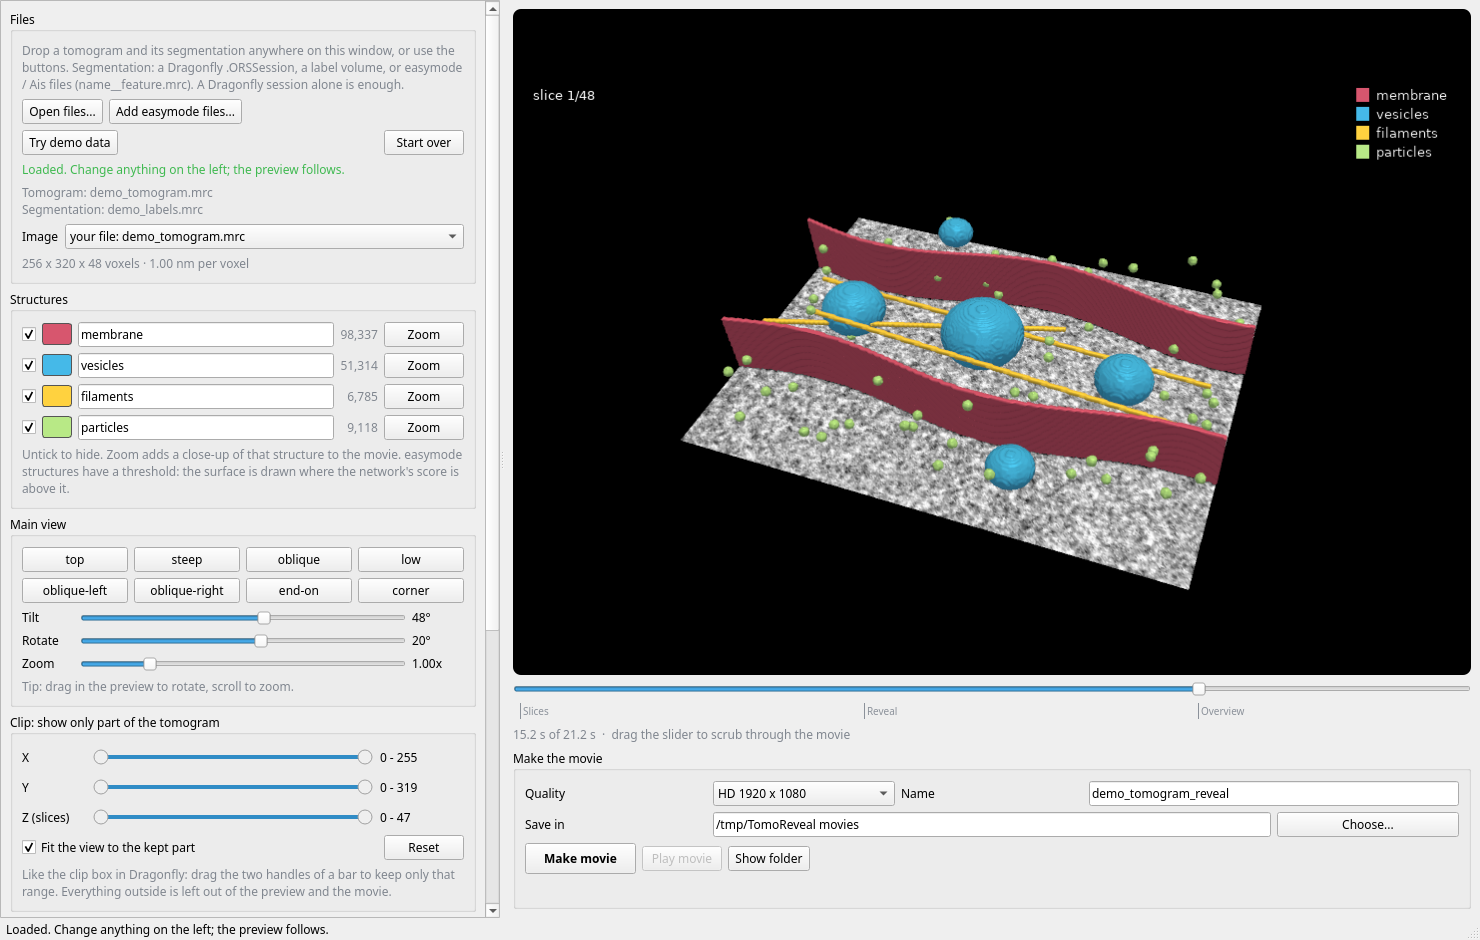
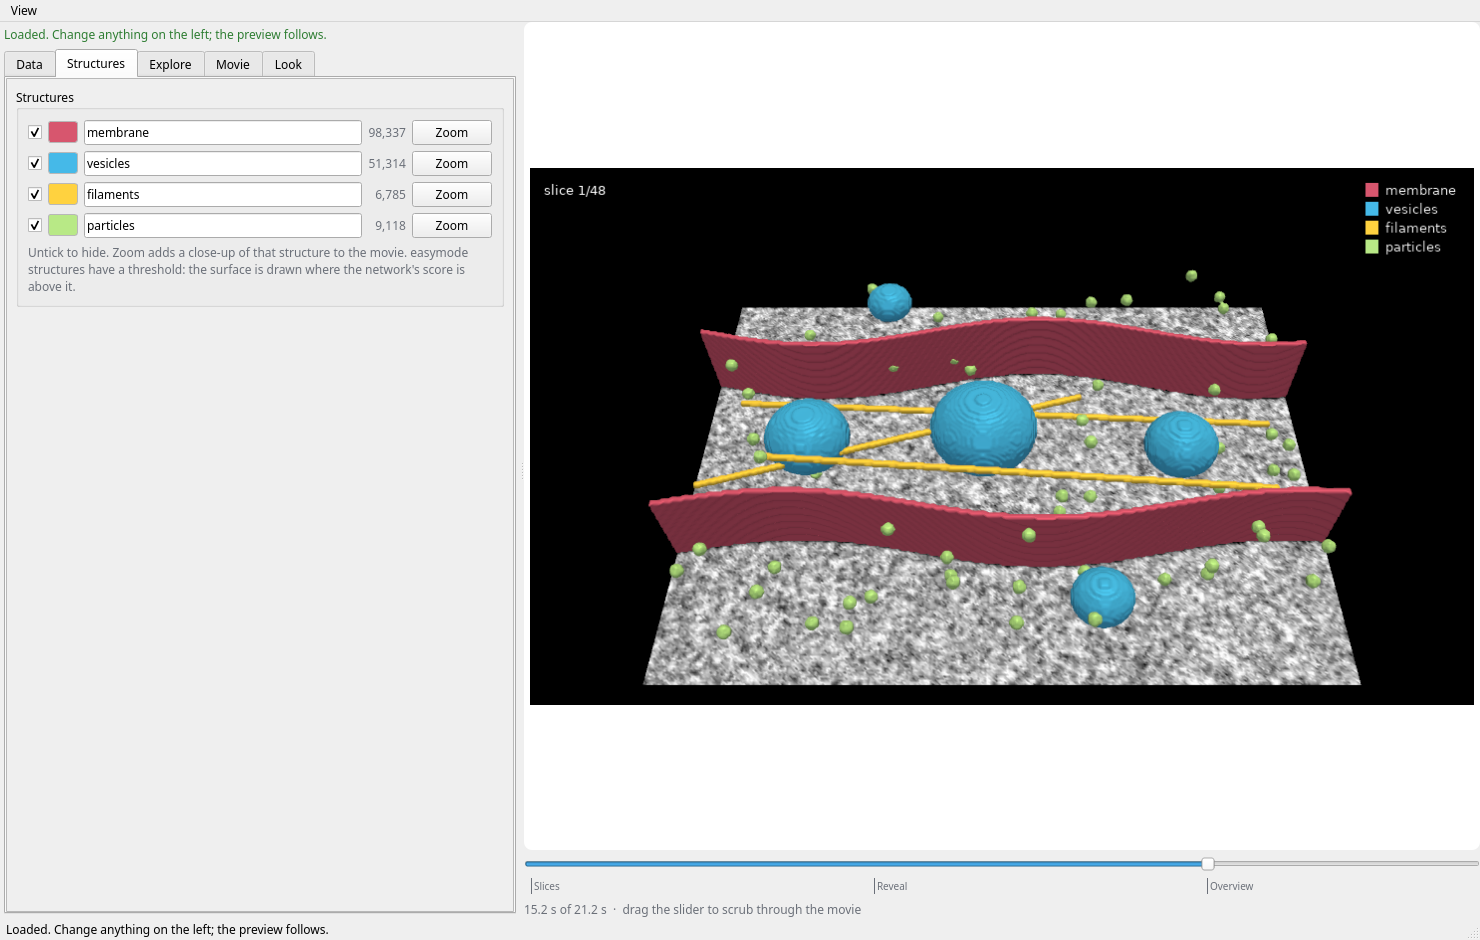
Phase 7: version 3.2.0, change log, README and screenshots
- Version 3.2.0 (tomoreveal/common.py; pyproject reads it).
- CHANGELOG.md: one entry per request F1-F5, with the cause found for F1.
- README.md:
  - "Make a movie" steps 1-2 rewritten for the Data tab (tomogram only,
    segmentation only, Add tomogram / Add segmentation, right-click to
    change the kind, several segmentations with tick boxes);
  - new "Look through the slices" (Explore tab), "Show, fade or hide the
    tomogram" and "Dark mode" sections;
  - `tomoreveal inspect` in the command list and in a new troubleshooting
    entry for structure names that differ from Dragonfly;
  - developer notes: new modules, and TOMOREVEAL_TEST_DATA for real sessions.
- docs/images regenerated with the offscreen window from the demo data only
  (the Data tab picture uses a made-up session built from the demo files);
  new pictures of the Data tab, the Explore tab, the per-shot tomogram
  choice and dark mode.

diff --git a/tomoreveal/common.py b/tomoreveal/common.py
@@ -1,7 +1,7 @@
 """Shared constants and small helpers."""
 
 
-__version__ = "3.1.0"
+__version__ = "3.2.0"
 
 
 ZMAGIC = b"\x28\xb5\x2f\xfd"

diff --git a/README.md b/README.md
@@ -12,7 +12,7 @@ TomoReveal reads these segmentations:
 
 The application is read-only for your data. It does not edit, rename or move tomograms, sessions or segmentations. It writes only the movies, in the folder that you select. It runs on your computer and does not send data to the internet.
 
-This is version 3.1.0. The [change log](CHANGELOG.md) lists the changes in each release.
+This is version 3.2.0. The [change log](CHANGELOG.md) lists the changes in each release.
 
 ## Supported platforms
 
@@ -122,7 +122,7 @@ The application writes a small made-up tomogram in a temporary folder and opens 
 
 ### 1. Load the files
 
-Drop the files on the window, or click **Open files**. You can drop all files at the same time.
+Drop the files on the window, or use the buttons in the **Data** tab. You can drop all files at the same time, and add more later: new files are added to what is loaded. **Start over** unloads everything.
 
 ![Empty window](docs/images/01-start.png)
 
@@ -131,37 +131,60 @@ Drop the files on the window, or click **Open files**. You can drop all files at
 | A Dragonfly session | The `.ORSSession` file. The tomogram file is optional, because the session contains a copy of the image. |
 | easymode or Ais output | The tomogram and the `name__feature.mrc` files |
 | A label volume | The tomogram and the label file |
+| Only a tomogram | The tomogram. The movie is the slice sweep and the overview. |
+| Only a segmentation | The segmentation. The movie shows the structures without a tomogram. |
 | A Dragonfly session and easymode output | All of them. The structures of both are shown. |
 
-Large tomograms and sessions can take a minute to load.
+TomoReveal recognises each dropped file by its content. To choose yourself, use **Add tomogram...** (the file is always used as the tomogram) or **Add segmentation...** (a session, a label volume or easymode files; never used as the tomogram). If a dropped file was recognised wrongly, right-click it in the Data tab and choose **Use as tomogram** or **Use as segmentation**.
 
-### 2. Select the image and the segmentation
+Large tomograms and sessions can take a minute to load. A line in the Data tab shows the progress.
 
-When you load a Dragonfly session, the **Image** list contains:
+### 2. Choose the tomogram and the segmentations
 
-- **your file**: the tomogram file that you loaded.
-- **Dragonfly's copy**: each image that is saved in the session, also filtered copies that you made in Dragonfly.
+![The Data tab with a session loaded](docs/images/02-data.png)
 
-Sometimes the image is changed during the import into Dragonfly: it is cropped, binned, or an axis is flipped. Then the tomogram file and the segmentation are not on the same grid. TomoReveal compares your file with Dragonfly's copy and finds the crop, the binning and the flips. It then puts your file on the grid of the segmentation. A line below the lists tells you what it found, for example "cropped to x 60-767, y 150-1315, z 6-73".
+**TOMOGRAM** lists every image that you can show under the segmentation. Only one is used at a time:
 
-easymode files that were made from the original tomogram file are put on the Dragonfly grid in the same way.
+- **None**: no tomogram. The structures are drawn on their own.
+- **your file**: a tomogram file that you loaded.
+- **from Dragonfly session ...**: each image that is saved in a session, also filtered copies that you made in Dragonfly. When you load only a session, its first image is selected for you.
 
-If the file is not the image that was imported, TomoReveal tells you and shows Dragonfly's copy.
+Sometimes the image is changed during the import into Dragonfly: it is cropped, binned, or an axis is flipped. Then the tomogram file and the segmentation are not on the same grid. TomoReveal compares your file with Dragonfly's copy and finds the crop, the binning and the flips. It then puts your file on the grid of the segmentation. A line below the list tells you what it found, for example "cropped to x 60-767, y 150-1315, z 6-73". easymode files that were made from the original tomogram file are put on the Dragonfly grid in the same way. If the file is not the image that was imported, TomoReveal tells you and shows Dragonfly's copy.
 
-The **Segmentation** list contains each multi-ROI and ROI of the session. TomoReveal selects the one that looks like the final segmentation. Select a different one if necessary.
+**SEGMENTATION** lists every multi-ROI and ROI of each session, and each label or easymode file, with a tick box. Next to each one you see how many structures it has and, in grey, their names, so that you can see what you switch on. You can switch on several at the same time; their structures are listed in groups in the Structures tab. For each session, TomoReveal switches on the one that looks like the final segmentation. Change it with one click if it chose wrongly.
+
+- A segmentation on another grid than the tomogram is greyed out, with the reason, for example "511 × 720 × 250 voxels, but the tomogram is 512 × 720 × 250".
+- The single-slice previews that Dragonfly's Segmentation Wizard leaves in a session, and Dragonfly's undo copies, are not listed. A grey line says how many were left out.
+- **Remove** unloads a file or a session. Your files on disk are not touched.
 
 ### 3. Set the structures
 
-For each structure you can:
+The **Structures** tab lists the structures with the names and colours that are saved in the Dragonfly session (or in the `.json` file next to a label volume). For each structure you can:
 
 - remove the tick to hide it.
 - click the coloured box to change the colour.
 - change the name. The legend uses this name.
 - move the **threshold** bar (easymode and Ais structures only). The surface is drawn where the score of the network is above the threshold.
 
+Structures that are hidden in Dragonfly, and the background, are listed in grey with the tick removed. Tick them to show them anyway. A structure that has no name in the session is shown as "label 3 (no name in the session)".
+
+### Look through the slices
+
+The **Explore** tab is for looking at the data slice by slice. It does not change the movie.
+
+![The Explore tab](docs/images/06-explore.png)
+
+- Move through the slices with the slider, **Previous** and **Next**, the mouse wheel, or the keys: Down or Right for the next slice, Up or Left for the previous one, Page Down and Page Up for ten slices, Home and End for the first and the last slice.
+- **2D slice** shows the slice flat, with the segmentation filled, as outlines, or off. **Overlay opacity** sets how strongly the colours cover the slice. Ctrl + mouse wheel zooms, dragging moves the image, and a double-click shows the whole slice again.
+- **3D at this slice** shows the 3D view with the slice at this position, and the structures above the slice, all structures, or none.
+- The line below the image shows the slice number, the depth in nm, and under the mouse the position, the grey value and the name of the structure.
+- Colours and which structures are shown come from the Structures tab. The clip box is drawn as a dashed rectangle, and slices outside the movie's slice range are dimmed.
+
+Three buttons pass what you found to the movie: **Start the slice sweep here**, **End the slice sweep here**, and **Add a close-up of** the structure under the mouse.
+
 ### 4. Set the view
 
-Click a view button, or use the **Tilt**, **Rotate** and **Zoom** bars. You can also drag in the preview to rotate, and scroll to zoom.
+In the **Movie** tab, click a view button, or use the **Tilt**, **Rotate** and **Zoom** bars. You can also drag in the preview to rotate, and scroll to zoom.
 
 ### 5. Clip the tomogram
 
@@ -176,19 +199,40 @@ Use **Clip** to keep only a part of the tomogram, as with the clip box in Dragon
 - Click **Zoom** next to a structure to add a close-up of all of that structure.
 - Click **+ Click a structure in the preview**, then click one object (one vesicle, one filament) to add a close-up of that object only.
 
-For each close-up you can set a caption, the duration, the zoom, the camera movement (orbit, rock or still), and what happens to the other structures (grey, hidden or unchanged).
+For each close-up you can set a caption, the duration, the zoom, the camera movement (orbit, rock or still), what happens to the other structures (grey, hidden or unchanged), and the tomogram (see the next step).
 
 ![A close-up of one object](docs/images/04-closeup.png)
 
 Drag the bar below the preview to look through the full movie before you make it.
 
-### 7. Make the movie
+### 7. Show, fade or hide the tomogram
 
-Select the quality, the name and the folder. Click **Make movie**. A bar shows the progress and the time that remains. When the movie is complete, click **Play movie** to open it in your video player, or **Show folder**.
+In the **Look** tab, **Tomogram slice** sets the default for the whole movie: **Show the tomogram slice**, and its **Opacity** from 0 to 100 %.
+
+In the **Movie** tab, each shot (slide up, reveal, overview and each close-up) has its own **Tomogram** choice:
+
+- **as default**: as set in the Look tab.
+- **shown**: fully visible.
+- **faded**: see-through, with the opacity that you set for this shot.
+- **hidden**: not shown, so only the structures are visible.
+
+The change happens at the start of the shot, over the **fade** time (0.5 s unless you change it). For example, set the overview to **hidden** to let the tomogram fade out after the reveal. If you hide the tomogram during the slide-up, a grey line warns you that this shot then shows nothing.
+
+![The tomogram choice for each shot](docs/images/07-tomogram.png)
+
+### 8. Make the movie
+
+At the end of the **Movie** tab, select the quality, the name and the folder. Click **Make movie**. A bar shows the progress and the time that remains. When the movie is complete, click **Play movie** to open it in your video player, or **Show folder**.
 
 ![The movie is saved](docs/images/05-movie-saved.png)
 
 Save the movies in a folder that is not your data folder.
+
+## Dark mode
+
+In the **View** menu, or in the Look tab under **Window**, choose the theme: **System** (follow the desktop), **Light** or **Dark**. TomoReveal remembers the choice. The theme changes only the window; the background of the movie is set separately in the Look tab.
+
+![Dark mode](docs/images/08-dark.png)
 
 ## Supported files
 
@@ -199,7 +243,7 @@ Save the movies in a folder that is not your data folder.
 | Label volume | `.mrc` `.tif` with whole numbers | One number for each structure. Put a `.json` file with the same name next to it to give names and colours: `{"1": {"name": "membrane", "color": "#d7566e"}}` |
 | easymode or Ais output | `name__feature.mrc` | One file for each structure. Scores as int8 (0 to 127), uint16 (0 to 255) or float32 (0 to 1). |
 
-The tomogram and the segmentation must show the same volume. A segmentation at a different binning of the same volume is resampled. For Dragonfly sessions, see [Select the image and the segmentation](#2-select-the-image-and-the-segmentation).
+The tomogram and the segmentation must show the same volume, and so must several segmentations that are switched on together. A segmentation at a different binning of the same volume is resampled. For Dragonfly sessions, see [Choose the tomogram and the segmentations](#2-choose-the-tomogram-and-the-segmentations).
 
 These files are not supported: Dragonfly `.ORSObject` files, Amira `.am`, IMOD `.mod`, and particle coordinate files such as `.star`.
 
@@ -260,9 +304,19 @@ tomoreveal --headless
 
 On Windows and macOS, update the graphics driver or the operating system.
 
-### The tomogram and the segmentation do not agree ("grid mismatch")
+### The structure names are not the ones in Dragonfly
 
-The two files do not show the same volume. Make sure that you selected the tomogram that the segmentation was made from. For a Dragonfly session, load the session without a tomogram file to use Dragonfly's copy of the image.
+Check which segmentation is ticked in the Data tab: a session can hold several, for example training data and the final result. To see exactly what TomoReveal reads from a session, run:
+
+~~~text
+tomoreveal inspect session.ORSSession
+~~~
+
+It prints each image and segmentation in the session, the stored names, colours and visible flags, and which stored property each was read from. Compare it with Dragonfly's Data Properties panel. Give a folder instead of a file to inspect every session in it, and add `--json` for output that other programs can read.
+
+### A segmentation is greyed out, or "grid mismatch"
+
+The tomogram and the segmentation do not show the same volume. Make sure that you selected the tomogram that the segmentation was made from. For a Dragonfly session, load the session without a tomogram file to use Dragonfly's copy of the image.
 
 ### A Dragonfly session cannot be read
 
@@ -278,6 +332,7 @@ The same functions are available as commands, for example on a computer without 
 
 ~~~text
 tomoreveal list    session.ORSSession
+tomoreveal inspect session.ORSSession
 tomoreveal movie   tomogram.mrc --session session.ORSSession --view oblique,top --focus "vesicles" -o movie.mp4
 tomoreveal movie   tomogram.mrc --features tomogram__membrane.mrc --threshold 0.5 --clip 0,400,0,600,10,50
 tomoreveal extract session.ORSSession --masks -o segmentation_out
@@ -288,7 +343,9 @@ On a Linux computer without a display, add `--headless` to the `movie` command.
 
 `tomoreveal extract` writes the selected Dragonfly segmentation as `labels.mrc` with the names and colours in `classes.json`.
 
-`tomoreveal app` shows the controls in a web browser tab on this computer in place of the window. This older interface does not have the clip bars.
+`tomoreveal inspect` prints what TomoReveal reads from a session; see [The structure names are not the ones in Dragonfly](#the-structure-names-are-not-the-ones-in-dragonfly).
+
+`tomoreveal app` shows the controls in a web browser tab on this computer in place of the window. This older interface does not have the clip bars, the Explore tab, the tomogram controls or dark mode.
 
 ## Scope and data safety
 
@@ -311,6 +368,9 @@ The source code is in the `tomoreveal` folder:
 | `render.py` | Drawing one frame and writing the movie |
 | `studio.py` | Program state that the window and the commands share |
 | `gui.py` | The desktop window |
+| `gui_data.py` | The Data tab |
+| `gui_explore.py`, `explore.py` | The Explore tab and its slice drawing |
+| `gui_theme.py` | Light and dark themes |
 | `cli.py`, `webapp.py`, `demo.py` | Commands, browser interface, demo data |
 
 To run the tests:
@@ -320,7 +380,7 @@ conda activate tomoreveal
 python -m pytest
 ~~~
 
-The tests use made-up data. They do not include a Dragonfly session, so the session reader is not covered by them. The tests that draw are skipped on a computer where no renderer can start.
+The tests use made-up data, including small made-up Dragonfly sessions. To also test real sessions, set `TOMOREVEAL_TEST_DATA` to a folder that contains them (outside the repository); those tests are skipped otherwise. The tests that draw are skipped on a computer where no renderer can start.
 
 ## License
 

diff --git a/CHANGELOG.md b/CHANGELOG.md
@@ -1,5 +1,23 @@
 # Change log
 
+## 3.2.0
+
+- **Structure names from Dragonfly (F1).** The Structures tab now always shows the names and colours of the segmentation that is switched on.
+  - Cause: in 3.1.0 the list of structures could not be rebuilt after the first load. Choosing another segmentation, or dropping another session, kept the names of the first one on screen while the movie already used the new ones.
+  - Names, colours and Dragonfly's "visible" flag are now read by the type of each stored property, not by guessing. This also fixes wrong, almost black colours in some training multi-ROIs.
+  - Structures that are hidden in Dragonfly, and background structures, are listed in grey with the tick box off. You can switch them on.
+  - A label without a name is shown as "label 3 (no name in the session)"; names are never made up.
+  - New command `tomoreveal inspect session.ORSSession` prints everything TomoReveal reads from a session.
+- **Tomogram opacity (F2).** In the Look tab: show or hide the tomogram slice, and set its opacity. In the Movie tab, each shot can use the default, show, fade or hide the tomogram, with a fade time. Movies without any tomogram are possible.
+- **Data tab (F3).** Load a tomogram only, a segmentation only, or both. Several sessions and files can be loaded at the same time.
+  - The tomogram is one choice: none, your file, or an image saved in a Dragonfly session. A session alone uses its own image.
+  - Every segmentation of every session is listed with a tick box, its number of structures and their names. Segmentations on another grid are greyed out with the reason. Segmentation Wizard previews are hidden.
+  - "Add tomogram..." and "Add segmentation..." always treat a file as what you chose; right-click a file to change it. Each file has a Remove button.
+  - A structure keeps its name, colour and tick when you add or remove other files.
+- **Explore tab (F4).** Go through the slices by hand, with the segmentation on top (filled, outlines or off) or in 3D at that slice. The line below the image shows the slice, the depth in nm, and the grey value and structure under the mouse. Buttons set where the slice sweep of the movie starts and ends, and add a close-up of the structure under the mouse.
+- **Dark mode (F5).** View menu or Look tab: System, Light or Dark. The choice is remembered.
+- The left side of the window is now in tabs: Data, Structures, Explore, Movie and Look.
+
 ## 3.1.0
 
 - The original tomogram file can be used together with a Dragonfly session even when Dragonfly changed the image at import. The program compares the file with the copy stored in the session and lines it up (flipped axes, binning, cropping). The Image list offers both "your file" and "Dragonfly's copy".
